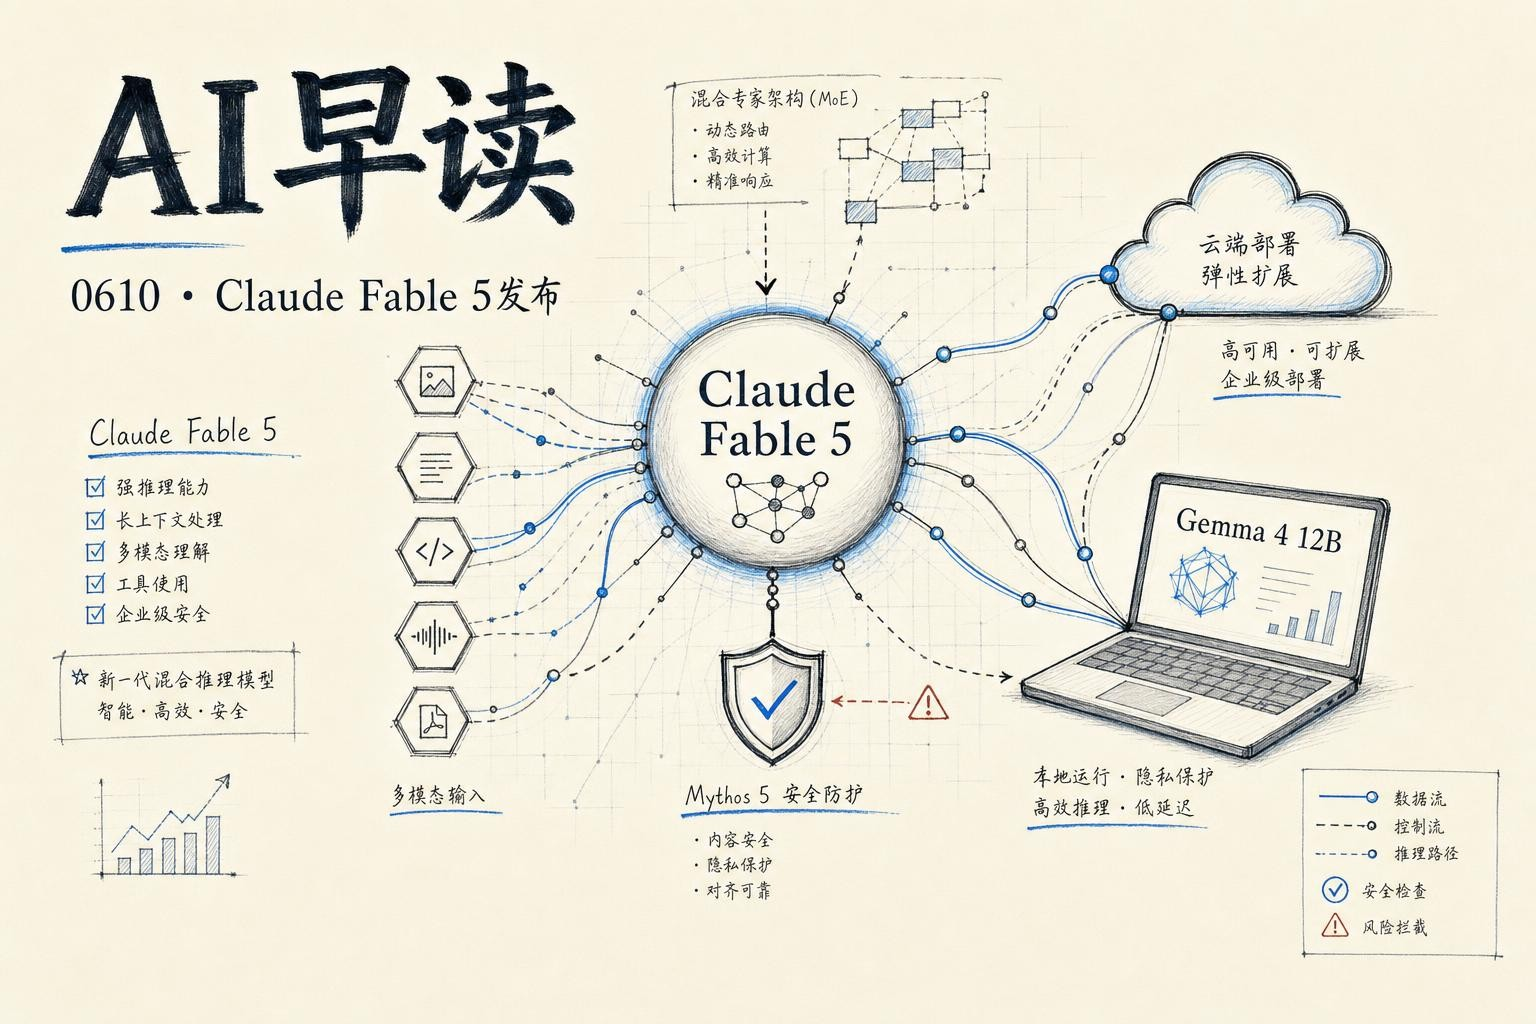
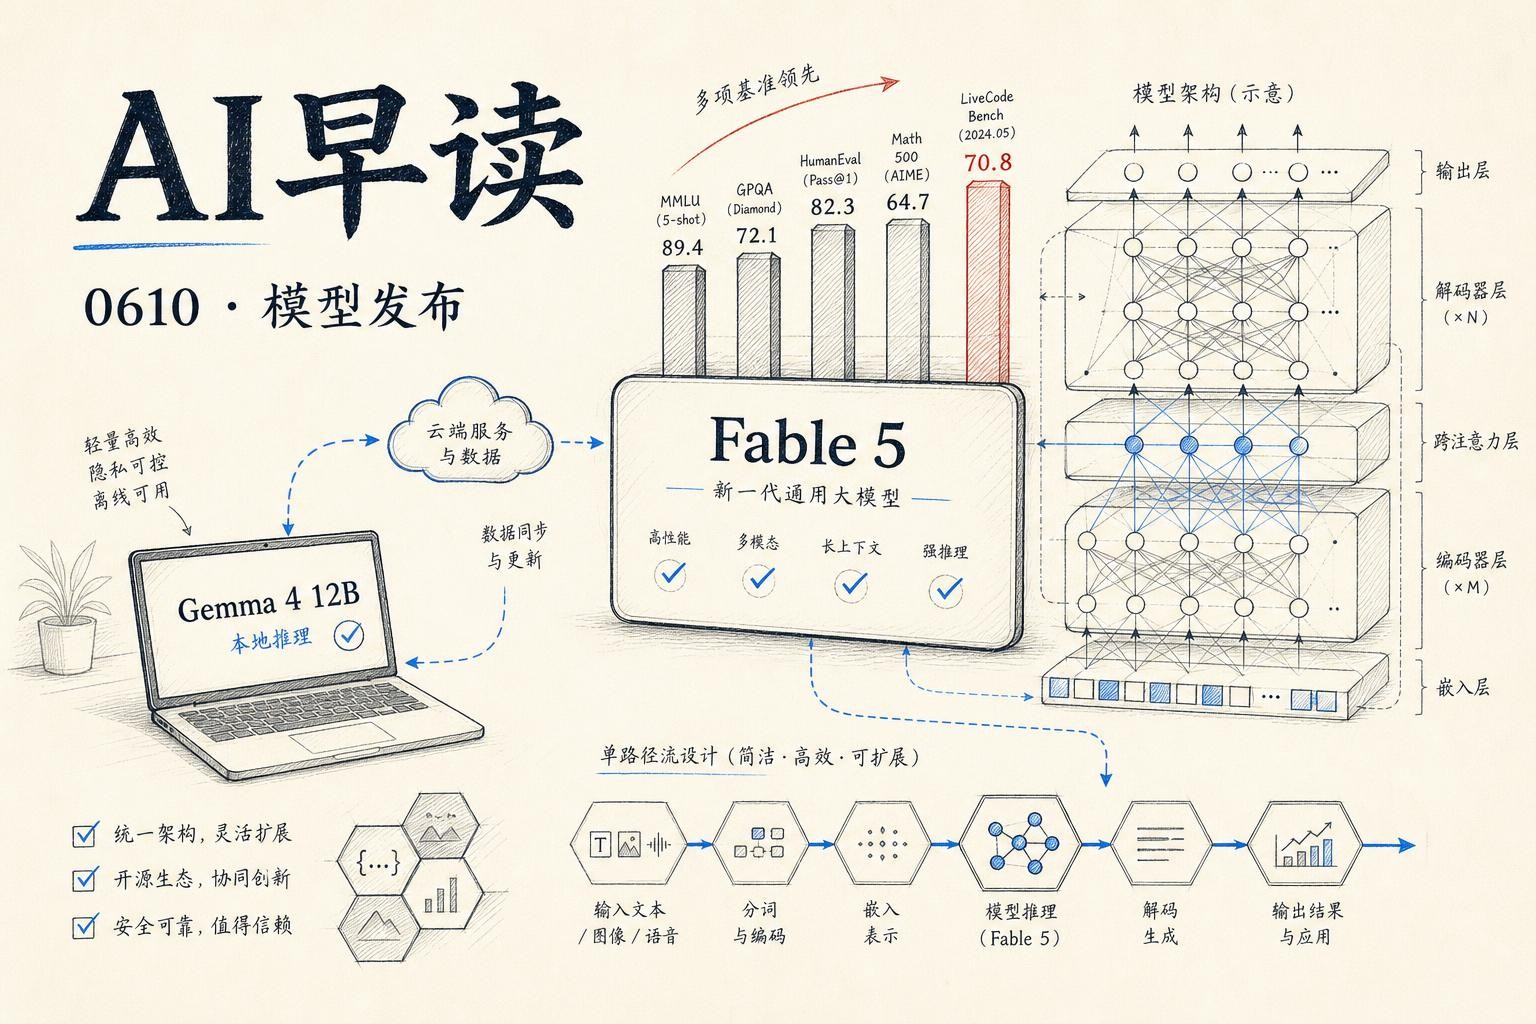
ai daily 2026-06-10

diff --git a/ai-daily-2026-06-10.md b/ai-daily-2026-06-10.md
@@ -1,63 +1,77 @@
 ---
-title: "【AI早读 0610】Claude Fable 5 发布 - Anthropic 推出迄今最强模型"
+title: "【AI早读 0610】Claude Fable 5 全平台上线,Gemma 4 12B 开源本地多模态"
 date: 2026-06-10
-tags: [AI早读, Anthropic, Claude Fable 5, Google Cloud, Gemma 4, 多模态, Codex]
+tags: [Claude Fable 5, Gemma 4 12B, Anthropic, Google DeepMind, AWS Agent, Codex, 模型发布, 多模态, AI早读]
 ---
 
 ![cover](images/ai-daily-2026-06-10.jpg)
 
-过去 24 小时 AI 圈最大的新闻来自 Anthropic。他们正式发布了 `Claude Fable 5` 和 `Claude Mythos 5` - 这是 Anthropic 迄今最强模型的通用版本和网络防御版本，也是第一个达到 Mythos 级别但仍对普通用户开放访问的模型。同一天，Google DeepMind 也放出了 `Gemma 4 12B`，一个可以在笔记本上本地运行的编码器无关多模态模型，而 OpenAI 则发布了 `Codex CLI 0.139.0` 并密集更新了多篇 Codex 案例。我会把今天最重要的几件事串起来做个梳理。
+6 月 9 号是今年 AI 圈最密集的发布日之一 - Anthropic 正式放出了 `Claude Mythos 5`(消费版叫 `Fable 5`),Google DeepMind 发布了 `Gemma 4 12B` 这个无编码器多模态模型,加上 OpenAI 连续放出 Codex 落地案例、AWS 两篇 agent 实践。我会把过去 24 小时最重要的几条线梳理清楚。期望对大家有所帮助。
 
-## Claude Fable 5：最强模型的安全分层
+## Claude Fable 5 来了,但不一定适合你
 
-Anthropic 在 6 月 9 日同时发布了两款模型 - `Claude Fable 5` 面向所有用户，`Claude Mythos 5` 面向网络防御者和关键基础设施提供方，通过 Project Glasswing 合作部署。底层是同一个模型，但 Fable 5 加了一层安全分类器来限制特定领域的输出。
+Anthropic 这次发布了两个名字:`Mythos 5` 是原始前沿模型,`Fable 5` 是加了安全分类器的消费版本。The Algorithmic Bridge 的 Alberto Romero 写了一篇务实的分析 - 他称 Mythos 5 是"当今世界最强模型",在编码、网络安全、推理、生物、视觉等基准测试上全面领先。
 
-链接：[Claude Fable 5 and Claude Mythos 5](https://www.anthropic.com/news/claude-fable-5-mythos-5)
+但关键在于:**你大概率不会直接用 Mythos 5**。Fable 5 才是 Pro/Max 用户能接触的版本,而且只有两周免费窗口(到 6 月 22 号),之后转为按 credits 计费,直到 Anthropic 有足够容量再恢复标准计划。
 
-Fable 5 在几乎所有基准测试上都达到了新 SOTA - 软件工程、知识推理、视觉理解、科学研究和长上下文。它的定价是 $10/百万输入 token、$50/百万输出 token，不到 Mythos Preview 的一半。Anthropic 特意提到，更长、更复杂的任务上 Fable 5 的领先优势会更明显，因为这类场景最能体现它的深度推理能力。
+Romero 的核心观察很敏锐:如果你的工作是写邮件、做摘要、头脑风暴这些"凡人工作",Fable 5 和 Opus 4.8 的体验差距并不明显。真正拉开差距的场景是超长上下文 agentic coding、跨百万行代码库的循环式开发。用他的话说 - "AGI 来了,但没有均匀分布"。模型的智能提升正在偏离普通用户的需求曲线。
 
-不过对普通用户来说，一个关键信息是：Anthropic 的安全策略走的是保守路线。在某些高敏感话题上，Fable 5 会回退到 Opus 4.8 来回答。官方数据是「少于 5% 的会话会触发」这个退路机制。从另一个角度看，这说明 Anthropic 敢于在同一个模型上做梯度安全 - Fable 5 剪掉高风险能力、Mythos 5 保留全能力但只给可信团队，这个区分思路本身就值得关注。
+定价也很直接:输入 $10/百万 token,输出 $50/百万 token - 是 Opus 4.8 的两倍。结合 test-time compute 的思路,你也许能让模型思考几小时来提高结果质量,但你的预算可能不支持。
 
-## Fable 5 登陆 Google Cloud
+链接:[Nine Things About Claude Mythos 5 That Matter If You're Not an Enterprise Customer](https://www.thealgorithmicbridge.com/p/nine-things-about-claude-mythos-5)
 
-同一天，Google Cloud 宣布 `Claude Fable 5` 在 Agent Platform 上正式可用。这是 Anthropic 和 Google Cloud 合作的一个里程碑 - 云厂商在第一时间接入对手的旗舰模型。
+## Fable 5 上架 Google Cloud
 
-链接：[Claude Fable 5: Available on Google Cloud](https://cloud.google.com/blog/products/ai-machine-learning/cloud-fable-5-on-google-cloud/)
+同一个消息从另一个维度切进来:`Fable 5` 已在 Google Cloud 的 Agent Platform 上正式可用。Google Cloud AI VP Michael Gerstenhaber 确认了这条消息 - 这是 Anthropic 和 Google Cloud 合作的最新里程碑,Opus 4.8 和 Sonnet 4.6 也同时在线。
 
-Google Cloud 提供的不仅是模型推理入口，还把它整合进了 Agent Platform 的整个工具链。这意味着用户可以在 GCP 上直接用 Fable 5 编排复杂的工作流，不需要自己做多模型路由或安全网关。对已经在用 GCP 的团队来说，这一下就把前一天的「最强模型发布」变成了可操作的生产能力。
+对云上的企业用户来说,这意味着可以直接在 GCP 里使用 Fable 5 做复杂软件开发、长周期 agent 任务和多模态文档分析。Agent Platform 的 model garden 已经开放入口。
 
-## Gemma 4 12B：编码器无关多模态，跑在笔记本上
+链接:[Claude Fable 5: Available on Google Cloud](https://cloud.google.com/blog/products/ai-machine-learning/cloud-fable-5-on-google-cloud/)
 
-Google DeepMind 发布的 `Gemma 4 12B` 走了一条截然不同的路线。它是一个 120 亿参数的多模态模型，但最特别的是架构 - 它移除了传统多模态模型中必备的视觉和音频编码器，让图像和音频信号直接流进 LLM 主干。
+## Simon Willison 的定价小技巧
 
-链接：[Introducing Gemma 4 12B: a unified, encoder-free multimodal model](https://deepmind.google/blog/introducing-gemma-4-12b-a-unified-encoder-free-multimodal-model/)
+Simon Willison 在 Fable 5 发布当天就上手测了。他用的工具是 `AgentsView` - Wes McKinney(前 Pandas 作者)写的 Python 工具包,用来分析本机 coding agent 的 token 使用情况。Fable 5 还没被纳入 AgentsView 的定价数据库,Simon 用 Fable 自己反解了 AgentsView,找到了自定义价格的配置方法。
 
-具体做法值得仔细看。图像处理上，Gemma 4 12B 用一个轻量嵌入模块（单次矩阵乘法加位置编码和归一化）取代了视觉编码器。音频处理更彻底，直接把原始音频信号投影到文本 token 的同一纬度空间，编码器完全不需要了。好处很直观 - 少了两个编码器，内存占用和延迟都会下降。
+这件事的侧面信息也很有意思:一天之内 Fable 5 的 token 消耗就能做出一张 treemap 图 - 个人实验的量级已经不算小了。
 
-这是 Gemma 4 系列首个中等规模模型，填补了边缘友好的 E4B 和 26B MoE 之间的空白。16GB 统一内存或 VRAM 就能跑，Apache 2.0 协议，支持 Hugging Face Transformers、llama.cpp、MLX 等主流推理框架。它还配备了 Multi-Token Prediction drafters 来降低推理延迟 - 这个技术路线和 Anthropic 之前的做法有呼应。
+链接:[Setting a custom price for a model in AgentsView](https://simonwillison.net/2026/Jun/9/agentsview-custom-model-price/)
 
-对开发者来说，`Gemma 4 12B` 最有意思的地方是它打开了「笔记本本地跑多模态代理」的可能性。不需要 GPU 集群、不需要 API 调用、一个 16GB MacBook 就能跑带视觉和音频理解的模型 - 这会让很多原型和实验的门槛大幅下降。
+## Gemma 4 12B
 
-## Codex 密集更新：Notion、Nextdoor、金融
+Google DeepMind 发布了 `Gemma 4 12B`,一个 120 亿参数的密集模型,定位在轻量级 `E4B` 和 260 亿专家混合模型之间。独特的卖点是无编码器架构 - 视觉和音频输入直接流入 LLM 主干,不需要独立的编码器步骤。
 
-OpenAI 昨天发布了 `Codex CLI 0.139.0`，同时推出了多篇 Codex 案例，覆盖 Notion、Nextdoor 和金融场景。
+技术实现上:视觉侧用一个轻量嵌入模块(单矩阵乘法 + 位置编码 + 归一化)取代了传统视觉编码器;音频侧更激进,直接用 raw audio signal 投影到文本 token 的同一维度空间。这消除了编码器带来的延迟和内存膨胀问题,使 12B 模型只需要 16GB VRAM 或统一内存就能在笔记本上本地运行。
 
-链接：[Codex CLI Release: 0.139.0](https://developers.openai.com/codex/changelog/#github-release-336847772)
+性能方面官方称接近 26B MoE 模型的基准水平。Apache 2.0 协议开源,Hugging Face、Kaggle、Ollama、LM Studio、llama.cpp 等主流工具链均支持。还附带了官方 Skills 仓库帮助 agent 对接开发能力。
 
-这些案例的核心叙事很一致：Codex 正在从「写 snippet 的工具」变成「能接管端到端工作流的代理」。Notion 案例讲的是如何用 Codex 加速 Notion 的功能开发流程，Nextdoor 案例展示的是工程师如何用 Codex 突破传统开发瓶颈，金融场景则聚焦在报表和 Dashboard 的自动化生成上。这几个案例放在一起，说明 OpenAI 在 Codex 的产品定位上已经明确 - 它不是一个 IDE 插件，而是一个能跨上下文、跨工具链执行复杂任务的工作代理。
+顺便一提,`Gemma 4` 系列的总下载量已经突破 1.5 亿次。
 
-## 其他值得关注的内容
+链接:[Introducing Gemma 4 12B: a unified, encoder-free multimodal model](https://deepmind.google/blog/introducing-gemma-4-12b-a-unified-encoder-free-multimodal-model/)
 
-AWS 有两篇文章值得提。一篇是用 Strands Agents + Amazon Bedrock AgentCore Browser Tool 做智能保险理赔处理，实现「hands-free 首报通知」。另一篇是用 Amazon Quick 和 New Relic 构建事件分类代理，把事故分诊从多工具手动操作变成了单一对话工作流。
+## OpenAI Codex 的企业落地故事
 
-链接：[Scale Robot Reinforcement Learning with NVIDIA Isaac Lab on Amazon SageMaker AI](https://aws.amazon.com/blogs/machine-learning/scale-robot-reinforcement-learning-with-nvidia-isaac-lab-on-amazon-sagemaker-ai/)
+OpenAI 连续发了两篇 Codex 案例。一是 Notion 如何用 Codex 构建内部工具 - 从自动化工单处理到数据分析管道,压缩了大量重复劳动;二是 Nextdoor 工程师用 Codex "无限制构建" - 核心是让非专业开发者也能通过自然语言生成可靠的生产代码。
 
-Hugging Face 发了两篇有分量的博客。一篇是 `North Mini Code` - Cohere 的首个开发者模型，定位在代码生成和代理任务。另一篇是把 GitHub CI 迁移到 Hugging Face Jobs 的实操指南，对已经在用 HF 生态的团队很实用。
+Codex CLI 也更新到了 0.139.0。配合当天的两个视频(面向财务分析的 Codex,以及面向数据科学的 Codex),OpenAI 在明确地打"企业自动化 + 代码生成"这张牌。
 
-Simon Willison 引了 Andrej Karpathy 的一段话，指向他最近对模型能力的观察。Ethan Mollick 在 One Useful Thing 上写了一篇「和 Mythos 一起工作是什么感觉」 - 用个人体验而不是基准数据来说话，读起来很有意思。
+链接:[What Codex unlocks for Notion](https://openai.com/index/notion)
+链接:[How engineers at Nextdoor use Codex to build without limits](https://openai.com/index/nextdoor)
 
-整体来看，今天的主题词是「分层能力」。Anthropic 用安全分类器做了一个能力梯度，同一模型分成了 Fable（通用）和 Mythos（防御）两个版本。Google DeepMind 则用架构创新做了另一层梯度 - Gemma 4 12B 去掉编码器，让「足够好」的多模态能力跑在笔记本上。两边都在做同一件事：把模型的绝对能力转化成不同层面的可及性。
+## AWS Agent 实践两连发
+
+两条 AWS 博客值得 agent 方向的同学关注。一条是用 `Amazon Quick` + `New Relic MCP Server` 构建 incident triage agent - 从一次 prompt 出发,自动收集证据、生成 RCA 报告、创建 Asana 任务。单条通路就能覆盖 on-call 场景的完整流程。
+
+另一条结合 `Strands Agents SDK`(开源)和 `Bedrock AgentCore Browser Tool`,做保险行业的"hands-free 首次损失通知"。核心思路是用 agent 替代人在保险门户上的重复操作 - 拍照、录视频、扫描文件这些多模态证据的 intake 工作,由 agent 一步完成端口操作。
+
+链接:[Build an agentic incident triage assistant with Amazon Quick and New Relic](https://aws.amazon.com/blogs/machine-learning/build-an-agentic-incident-triage-assistant-with-amazon-quick-and-new-relic/)
+链接:[Hands-free first notice of loss: Using Strands Agents and Amazon Bedrock AgentCore Browser Tool](https://aws.amazon.com/blogs/machine-learning/hands-free-first-notice-of-loss-using-strands-agents-and-amazon-bedrock-agentcore-browser-tool-for-intelligent-claims-intake/)
+
+## Cloudflare 的防御架构
+
+Cloudflare 发布了一篇"自己当客户零号"的防御实践 - `Defend against frontier cyber models`。随着前沿模型(包括新发布的 Mythos 级模型)被用于攻击面的自动化探测和利用生成,Cloudflare 展示了其安全架构如何检测和阻断这些 AI 驱动的威胁。对关心 AI 安全落地的读者来说,这是一手的工程参考。
+
+链接:[Defend against frontier cyber models: Cloudflare's architecture as customer zero](https://blog.cloudflare.com/frontier-model-defense/)
 
 ---
 
-*来源：VerySmallWoods Research Feed - 2026-06-10 UTC*
+*来源:VerySmallWoods Research Feed - 2026-06-10 UTC*

diff --git a/images/prompts/cover.md b/images/prompts/cover.md
@@ -1,24 +1,26 @@
-Cover theme: Anthropic 专场
+Cover theme: 模型发布
 Style: hand-drawn editorial ink
 Composition: hero-center
 
 Title text: AI早读
-Subtitle text: 0529 · Anthropic 专场
+Subtitle text: 0610 · 模型发布
 
 Visual composition:
-- Main visual: a large hand-drawn upward-trending graph spanning center and right side, with a stylized model architecture diagram showing a glowing "Opus 4.8" chip/node at the peak. A safety shield icon intersects the growth line, with small agent-node circles branching off in parallel (symbolizing Dynamic Workflows subagents). A subtle cluster of small dots in the upper right represents the Mythos model on the horizon.
-- Layout: title text "AI早读" large and readable in the upper-left corner, subtitle "0529 · Anthropic 专场" smaller directly below it; illustration occupies remainder of canvas with generous negative space.
-- Decorative elements: small pencil-sketch annotations near the growth line ("honesty", "965B", "Mythos"), node dots connected by dashed arrows, data-flow traces along the growth curve, a few small hexagonal data tiles.
+- Main visual: a large hand-drawn diagram of a frontier model architecture with Claude Fable 5's multi-layer neural network spanning center and right side, interconnected with Gemma 4 12B's encoder-free design concept shown as a streamlined single-path flow below
+- Layout: title text large and readable in the upper-left, subtitle smaller below it; illustration occupies remainder of canvas with generous negative space
+- Primary element: a central stylized "Fable 5" model card with benchmark bars rising from it
+- Secondary elements: a smaller laptop icon with "Gemma 4 12B" label showing local inference, data flow arrows connecting cloud and laptop
+- Decorative elements: small pencil-sketch annotations, node dots, dashed arrows, data-flow traces, a few small hexagonal data tiles
 
 Color scheme:
 - Background: warm off-white paper (#F7F3EA)
 - Primary ink: deep charcoal / navy-black
-- Accent: restrained Anthem Blue (#4A90D9) used for model/agent nodes and data paths. Signal red used very sparingly for safety-shield accents.
-- Secondary: muted graphite and pale steel blue for grid lines and shadow lines.
+- Accent: restrained cyan blue used for checkmarks and active data paths. Signal red used very sparingly for benchmark highlights.
+- Secondary: muted graphite and pale steel blue for grid lines and shadow lines
 
 Style notes:
 - Premium Chinese tech newsletter cover.
 - Hand-drawn but precise, like a research notebook meets systems architecture sketch.
 - Keep the image uncluttered and readable at thumbnail size.
-- Make all visible text crisp, legible, and exactly as specified: "AI早读" and "0529 · Anthropic 专场".
+- Make all visible text crisp, legible, and exactly as specified: "AI早读" and "0610 · 模型发布".
 - No logos, no photorealistic people, no generic robot face, no dark gradient background, no glowing neon effects.
